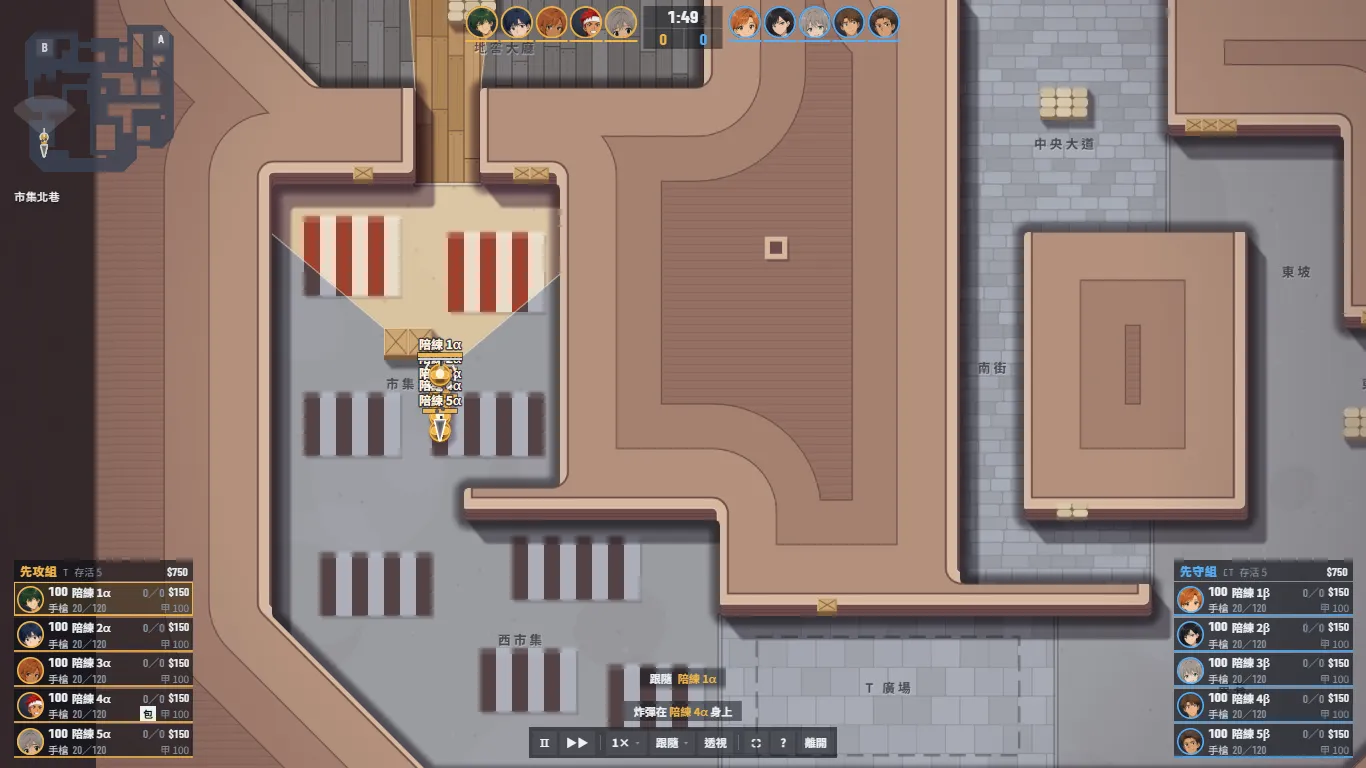
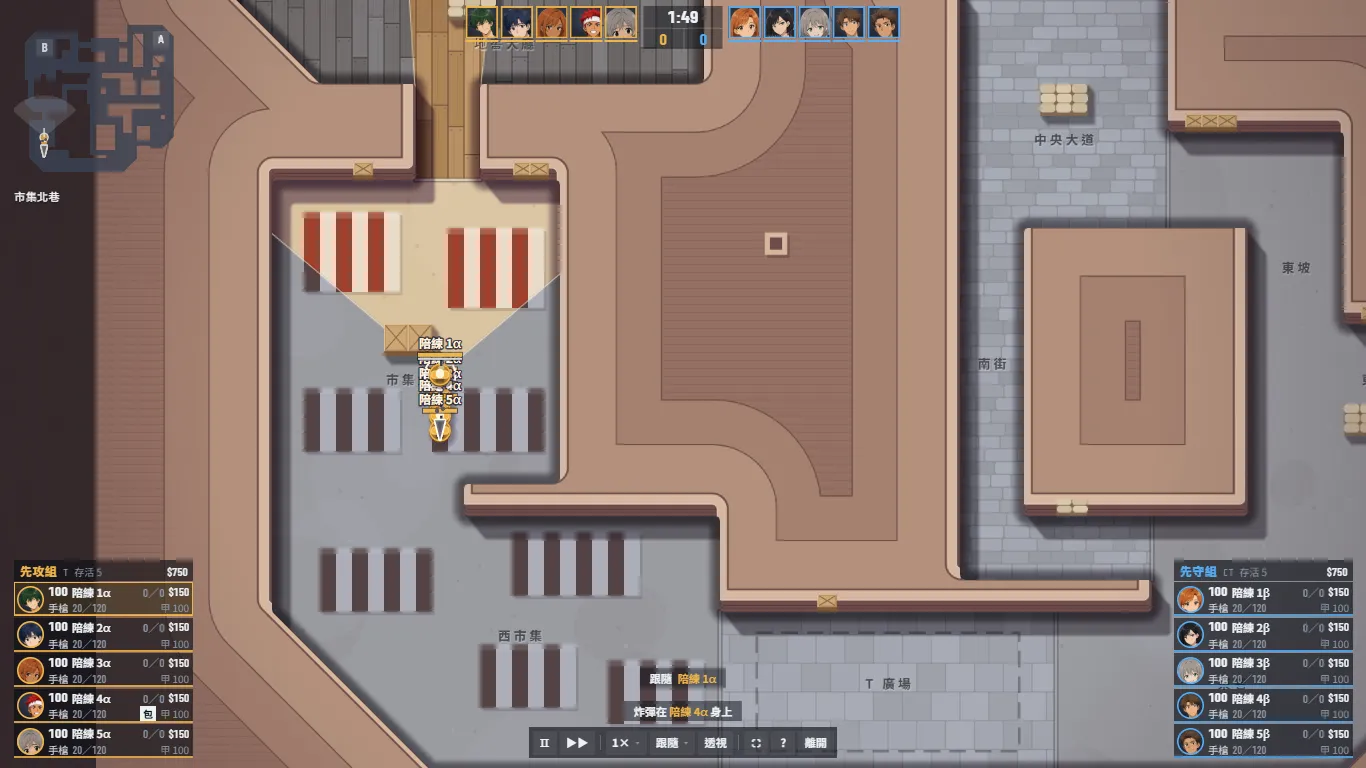
feat(shooter): 頂部計分板頭像改方形
觀戰名單與 Tab 計分表維持圓形；portraitSvg 加 square 選項。

diff --git a/src/web/portrait.ts b/src/web/portrait.ts
@@ -19,10 +19,12 @@ const SPEC = new Map<string, PortraitSpec>(PORTRAITS.map((p) => [p.id, p]));
 
 let clipSeq = 0;
 
-/** 圓形頭像：頭像圖放大 1.3 倍讓臉佔滿圓，墨色漸層底（不比介面亮）；ring 有給就畫外框（攻防戰的隊色） */
-export function portraitSvg(portraitId: string, size = 96, ring?: string): string {
+/** 頭像：頭像圖放大 1.3 倍讓臉佔滿，墨色漸層底（不比介面亮）；ring 有給就畫外框（攻防戰的隊色）；square＝方形（攻防戰頂部計分板） */
+export function portraitSvg(portraitId: string, size = 96, ring?: string, square = false): string {
   const clip = `pfc${++clipSeq}`;
-  return `<svg class="avatar pf" width="${size}" height="${size}" viewBox="0 0 100 100" aria-hidden="true"><defs><clipPath id="${clip}"><circle cx="50" cy="50" r="50"/></clipPath><radialGradient id="${clip}g" cx="50%" cy="35%" r="75%"><stop offset="0" stop-color="#3a4458"/><stop offset="1" stop-color="#151a24"/></radialGradient></defs><g clip-path="url(#${clip})"><rect width="100" height="100" fill="url(#${clip}g)"/><image href="${avatarUrl(portraitId)}" x="-15" y="-11" width="130" height="130" preserveAspectRatio="xMidYMid slice"/></g>${ring ? `<circle cx="50" cy="50" r="47" fill="none" stroke="${ring}" stroke-width="6"/>` : ''}</svg>`;
+  const shape = square ? '<rect width="100" height="100"/>' : '<circle cx="50" cy="50" r="50"/>';
+  const frame = square ? `<rect x="3" y="3" width="94" height="94" fill="none" stroke="${ring}" stroke-width="6"/>` : `<circle cx="50" cy="50" r="47" fill="none" stroke="${ring}" stroke-width="6"/>`;
+  return `<svg class="avatar pf" width="${size}" height="${size}" viewBox="0 0 100 100" aria-hidden="true"><defs><clipPath id="${clip}">${shape}</clipPath><radialGradient id="${clip}g" cx="50%" cy="35%" r="75%"><stop offset="0" stop-color="#3a4458"/><stop offset="1" stop-color="#151a24"/></radialGradient></defs><g clip-path="url(#${clip})"><rect width="100" height="100" fill="url(#${clip}g)"/><image href="${avatarUrl(portraitId)}" x="-15" y="-11" width="130" height="130" preserveAspectRatio="xMidYMid slice"/></g>${ring ? frame : ''}</svg>`;
 }
 
 /** 全身立繪（透明底）；cls 給邊光（rim-me／rim-foe／rim-other） */

diff --git a/src/web/shooter/hud.ts b/src/web/shooter/hud.ts
@@ -112,7 +112,7 @@ export class ShooterHud {
     this.mine = mineGroup(meta);
     this.ticket = meta.watch ? ticket : null;
     this.score = new ScoreBar(root, meta, this.mine ?? 0);
-    this.score.paint((g) => this.groupColor(g), (id) => this.face(id));
+    this.score.paint((g) => this.groupColor(g), (id) => this.face(id, true));
     this.feed = el('div', 'sg-feed', root);
     this.banner = el('div', 'sg-banner hidden', root);
     this.hint = el('div', 'sg-hint', root);
@@ -223,14 +223,14 @@ export class ShooterHud {
     return this.tGroup;
   }
 
-  /** 選手頭像，外框是隊色（同一個人同一邊只產生一次） */
-  face(id: number): string {
+  /** 選手頭像，外框是隊色（同一個人同一邊、同一形狀只產生一次）；square＝頂部計分板的方形 */
+  face(id: number, square = false): string {
     const team = this.teamNow(this.meta.groups[id]);
-    const key = `${id}${team}`;
+    const key = `${id}${team}${square ? 's' : ''}`;
     let html = this.faces.get(key);
     if (html === undefined) {
       // 經營層觀戰用選手的立繪；試玩的 Bot 與舊觀戰票沒有立繪代號，依種子與座位挑
-      html = avatarHtml(this.meta.watch?.portraits?.[id] || portraitOfSeat(this.meta.seed, id), TEAM_COLOR[team]);
+      html = avatarHtml(this.meta.watch?.portraits?.[id] || portraitOfSeat(this.meta.seed, id), TEAM_COLOR[team], square);
       this.faces.set(key, html);
     }
     return html;
@@ -336,7 +336,7 @@ export class ShooterHud {
     const tGroup = this.groupOfTeam('T', f.board);
     if (tGroup !== this.tGroup) {
       this.tGroup = tGroup;
-      this.score.paint((g) => this.groupColor(g), (id) => this.face(id));
+      this.score.paint((g) => this.groupColor(g), (id) => this.face(id, true));
     }
     const leftTeam: Team = tGroup === leftGroup ? 'T' : 'CT';
     const rightTeam: Team = leftTeam === 'T' ? 'CT' : 'T';

diff --git a/src/web/shooter/scorebar.ts b/src/web/shooter/scorebar.ts
@@ -23,8 +23,8 @@ export function gunIconUrl(id: WeaponId): string {
   return url;
 }
 
-/** 選手頭像：立繪裁圓，外框是隊色 */
-export const avatarHtml = (portraitId: string, ring: string): string => portraitSvg(portraitId, 96, ring);
+/** 選手頭像：立繪裁圓（頂部計分板用方形），外框是隊色 */
+export const avatarHtml = (portraitId: string, ring: string, square = false): string => portraitSvg(portraitId, 96, ring, square);
 
 interface Cell {
   readonly id: number;

diff --git a/docs/2026-11-03_經營層_選手立繪接入_交付報告.md b/docs/2026-11-03_經營層_選手立繪接入_交付報告.md
@@ -44,7 +44,7 @@
 
 ## 介面
 
-- **頭像**：立繪裁圓、保留原色，不再染金；頭像圖放大 1.3 倍讓臉佔滿圓，底是比介面暗的墨色漸層。外框沿用隊色規則：經營層我方金、本週對手紅、其他人灰；攻防戰 T 黃 CT 藍。
+- **頭像**：立繪裁圓、保留原色，不再染金；頭像圖放大 1.3 倍讓臉佔滿圓，底是比介面暗的墨色漸層。外框沿用隊色規則：經營層我方金、本週對手紅、其他人灰；攻防戰 T 黃 CT 藍。攻防戰頂部計分板用方形頭像（使用者要求），觀戰名單與 Tab 計分表仍是圓形。
 - **收藏卡滿版**（陣容出賽卡、市場選中卡）：立繪鋪滿卡面，依臉部座標裁到腰上、人物填滿八成以上卡寬；上下緣壓暗，版本、品階、名字、評分疊在立繪上。底是墨色＋品階色光暈＋斜紋＋大號品階字。SR 多一圈金色內緣光，SSR 再加掃光。卡片尺寸維持 236×344（試過窄卡 196，等級字放不下、出賽列右側變空，使用者選標準寬）。
 - **邊光**：立繪不描白邊，改用往左上偏的隊色單側光暈（我方金、對手紅、其他人淡白），深色服裝靠它和暗底分開。
 - **全身立繪**：選手頁左側，站在原本的環形裝飾前，腳下淡出，不碰名字牌與右側數據。
